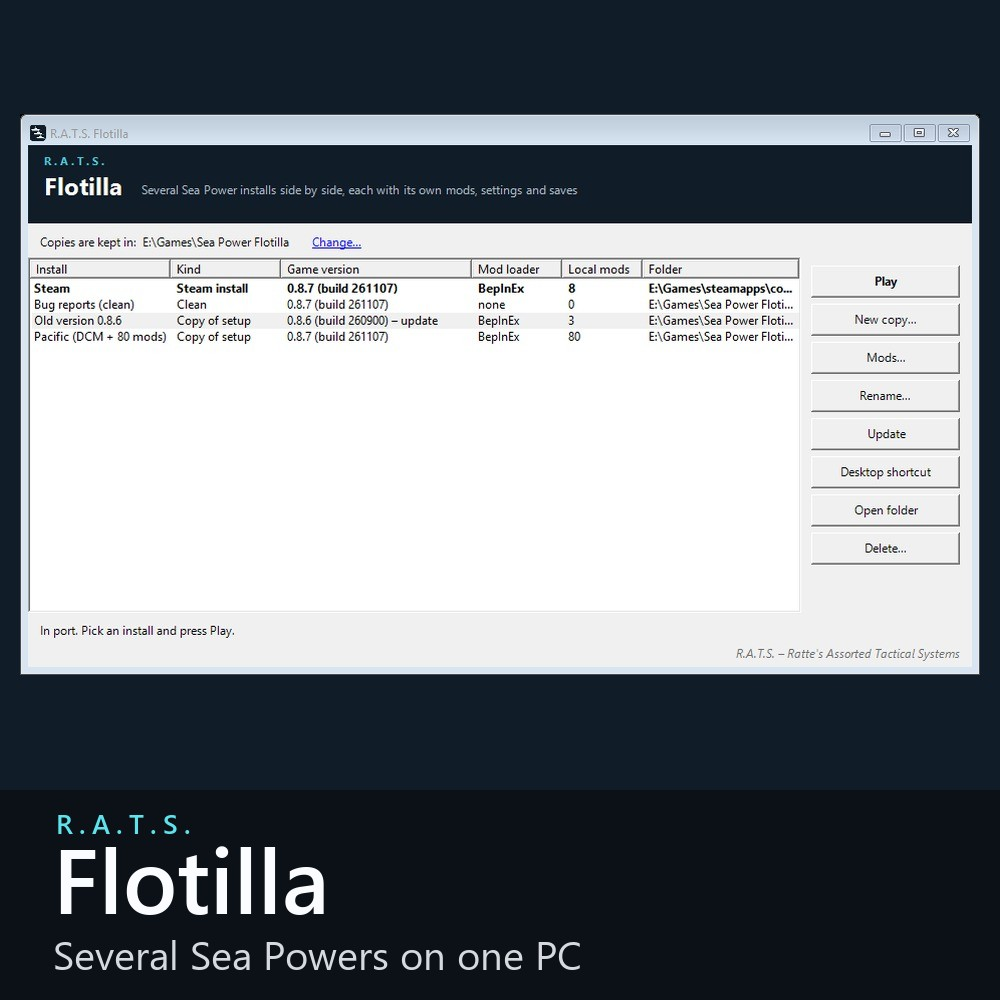
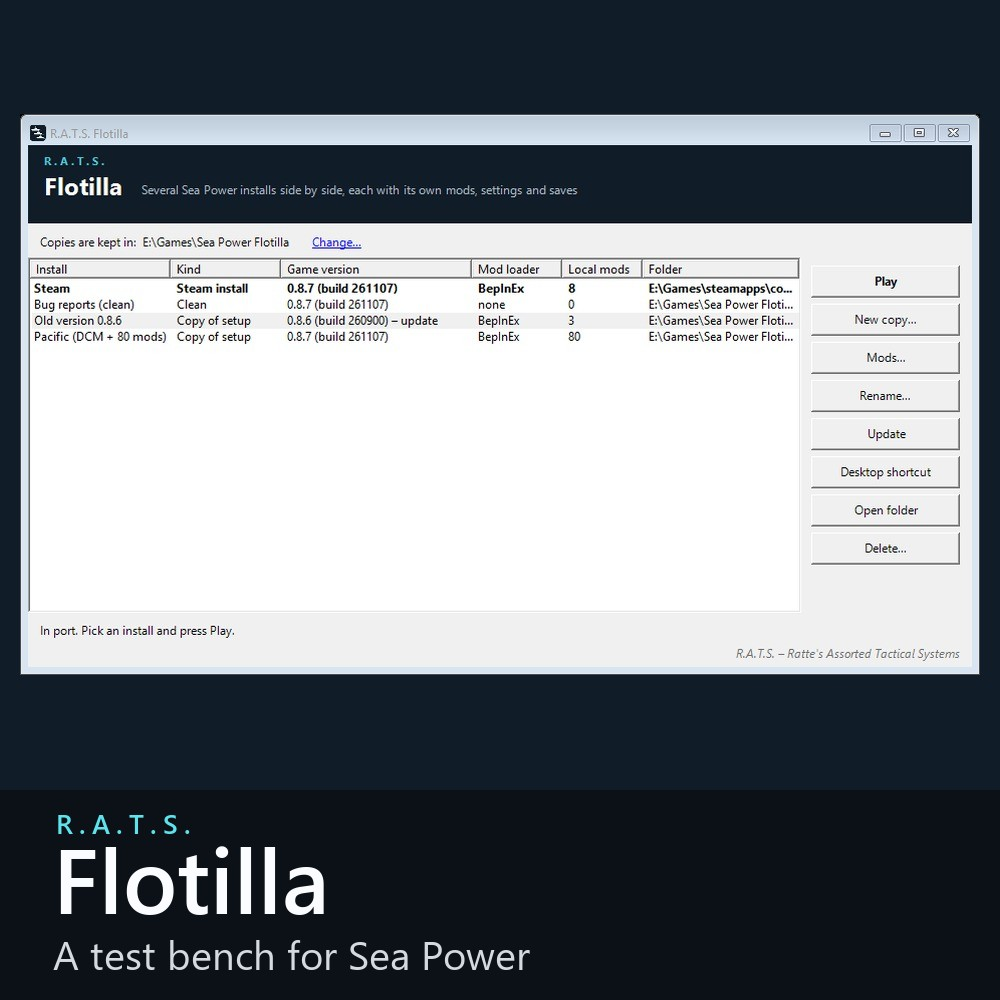
Workshop page as a test bench; posts for 0.1.0

Changed region(s): [[0.062, 0.93, 0.589, 0.992]]

diff --git a/workshop/posts-0.1.0/reddit.md b/workshop/posts-0.1.0/reddit.md
@@ -1,0 +1,22 @@
+**Title:** R.A.T.S. Flotilla: a test bench for Sea Power. Is it the game, or is it your mods?
+
+---
+
+## R.A.T.S. Flotilla – stop testing on the install you actually play
+
+Something broke. Was it the game, or one of the 47 mods you swore were fine? Now you can find out without taking your game apart.
+
+Flotilla keeps several Sea Power installs side by side, each with its own mods, settings and saves.
+
+- **Bug reports that count:** one click makes a bone-clean install with no mods and no loader. Reproduce it there and the devs get a report they can use
+- **Test a giant mod list** on its own copy. So loaded it's a miracle it starts? Your everyday game never finds out
+- **Keep the old version** next to the new one and compare after an update
+- **Mods per copy:** switch them on or off, set the order, or add a mod to just that copy
+- **Name your copies** so you know which one is "Bug reports" and which one is "Pacific, 80 mods, pray"
+- Your Steam install stays exactly as it is
+
+It's a small Windows app, about 19 GB of disk per copy.
+
+[R.A.T.S. Flotilla on the Workshop](https://steamcommunity.com/sharedfiles/filedetails/?id=3836624723) · [Plain download on GitHub](https://github.com/struckl/SeaPowerFlotilla/releases/latest)
+
+*Ratte's Assorted Tactical Systems*

diff --git a/workshop/posts-0.1.0/discord-buord.md b/workshop/posts-0.1.0/discord-buord.md
@@ -1,0 +1,15 @@
+**R.A.T.S. Flotilla – a test bench for Sea Power**
+Stop testing on the install you actually play.
+
+Several Sea Power installs side by side, each with its own mods, settings and saves:
+• **Clean install in one click:** no mods, no loader. Is it the game or your mod? Now you know
+• **One copy per test:** try a build or a giant mod list while your everyday game stays as it is
+• **Old and new game version** next to each other
+• **Mods per copy:** on/off, load order, or add a folder or zip to just that copy
+• **Name your copies**, so "Pacific, 80 mods, pray" stays away from "Bug reports"
+• Your Steam install is left alone
+
+Workshop: <https://steamcommunity.com/sharedfiles/filedetails/?id=3836624723>
+GitHub: <https://github.com/struckl/SeaPowerFlotilla/releases/latest>
+
+*Ratte's Assorted Tactical Systems*

diff --git a/workshop/posts-0.1.0/discord-microprose.md b/workshop/posts-0.1.0/discord-microprose.md
@@ -1,0 +1,13 @@
+**R.A.T.S. Flotilla – is it the game, or is it your mods?**
+Something broke and you have 47 mods switched on. Good luck. Or:
+
+• **One click, one bone-clean Sea Power** with no mods. Reproduce the bug there and the devs get a report they can use
+• **Test a huge mod list on its own copy.** So loaded it's a miracle it starts? Your everyday game never finds out
+• **Keep the old version** next to the new one after an update
+• Every copy has its own mods, settings and saves, and your Steam install stays as it is
+
+Small Windows app, about 19 GB per copy.
+Workshop: <https://steamcommunity.com/sharedfiles/filedetails/?id=3836624723>
+GitHub: <https://github.com/struckl/SeaPowerFlotilla/releases/latest>
+
+*Ratte's Assorted Tactical Systems*
